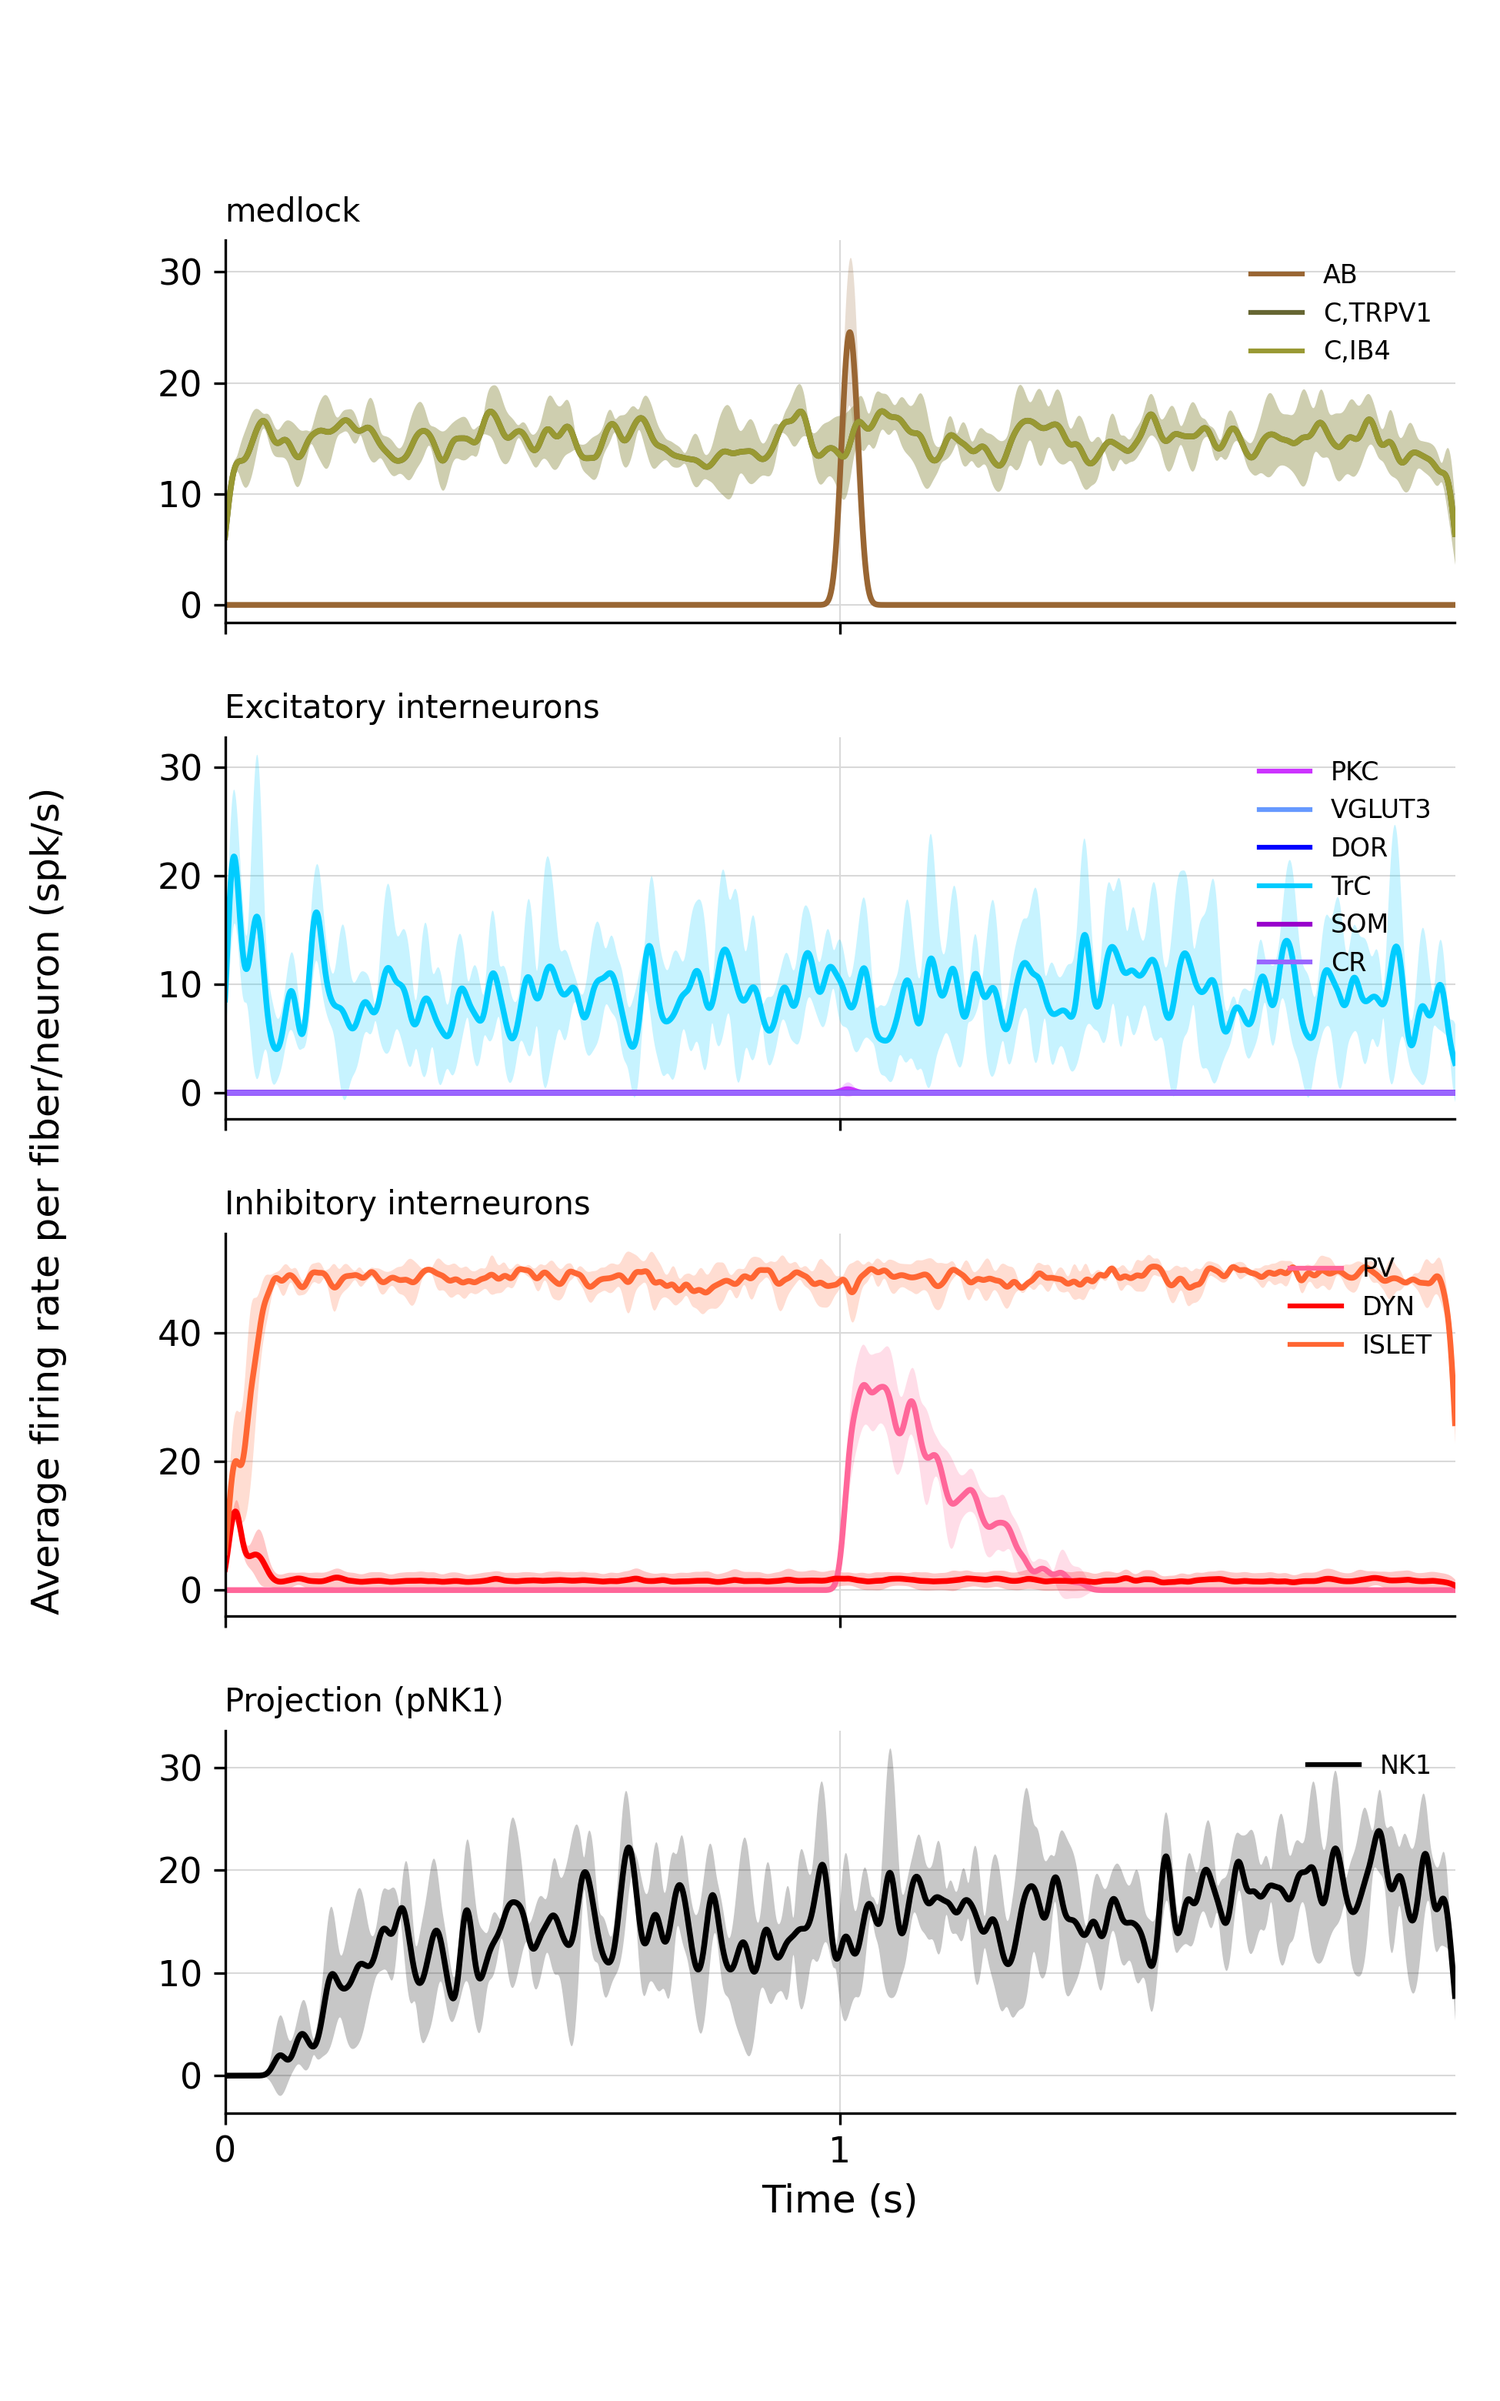
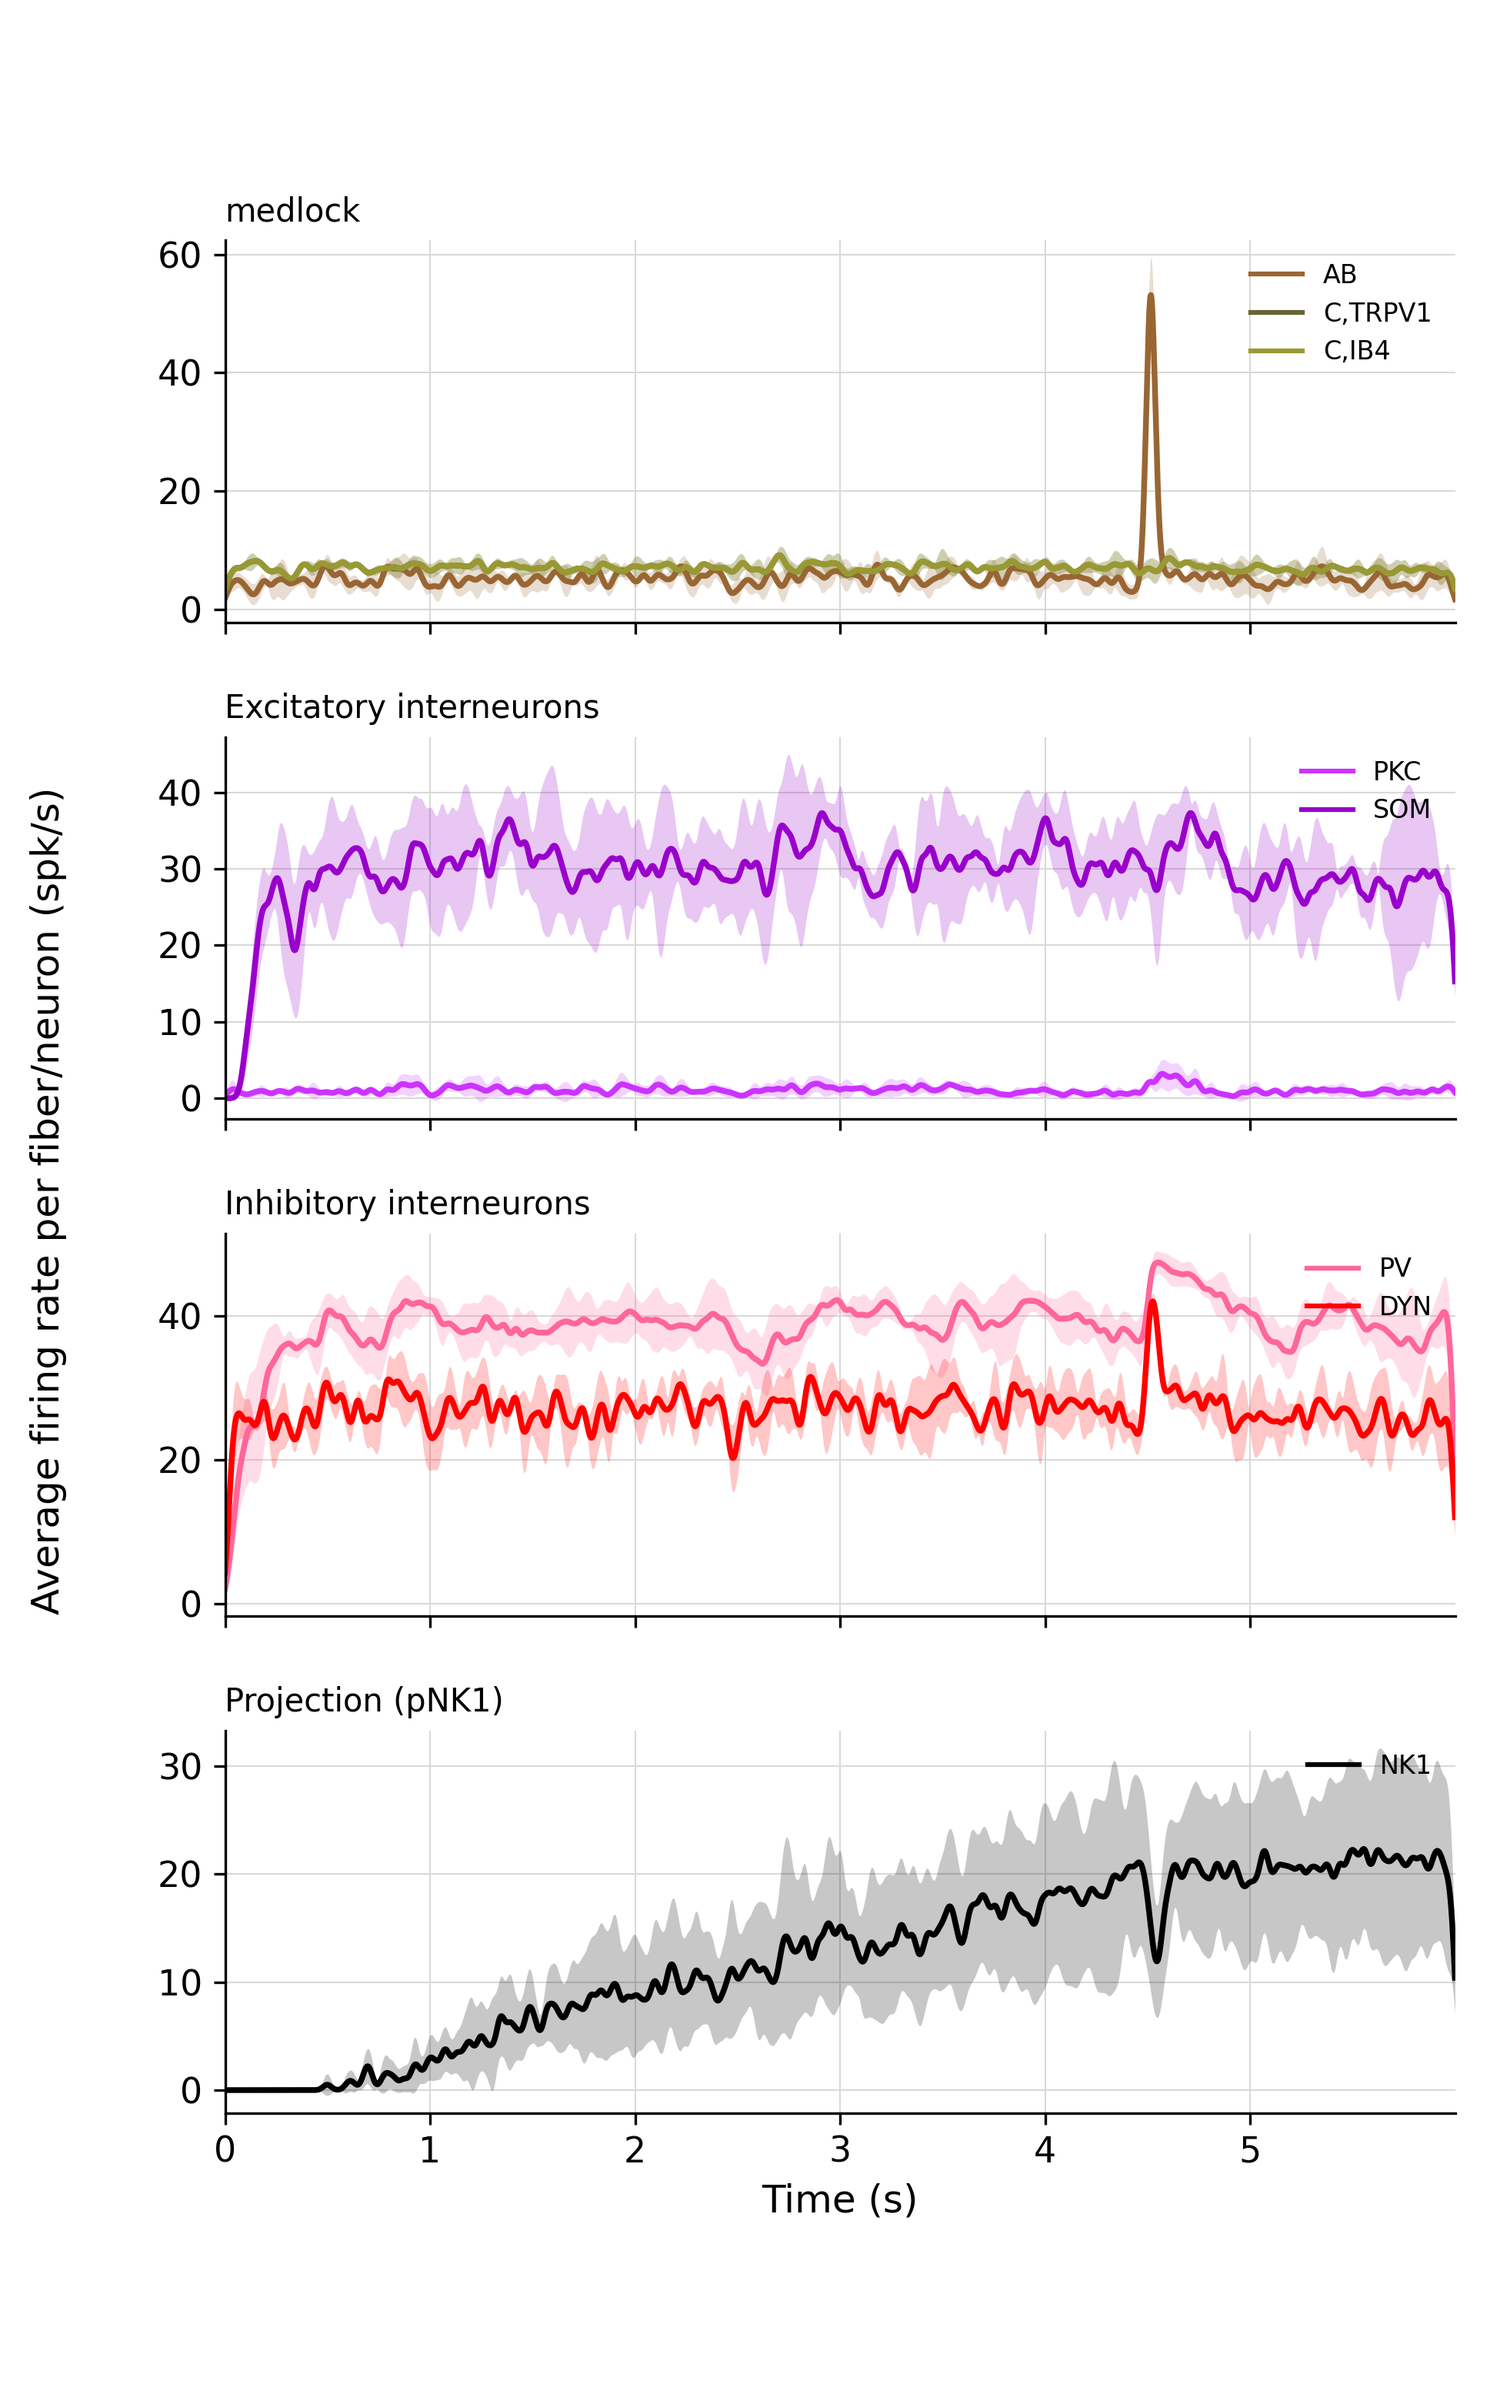
frh plotting

diff --git a/Helper Scripts & misc. (must remove from folder to use)/FRHcode/plot_frhs.py b/Helper Scripts & misc. (must remove from folder to use)/FRHcode/plot_frhs.py
@@ -116,9 +116,8 @@ from matplotlib.lines import Line2D
 
 # ---------------------------------------------------------------- constants --
 
-END_TIME = 2.0     # s, simulated duration (EndTime in FiringRateHist.m)
 RES      = 0.025   # ms, sampling resolution of simData.t
-KWID     = 10.0   # ms, Gaussian kernel sigma (kWid in FiringRateHist.m)
+KWID     = 20.0   # ms, Gaussian kernel sigma (kWid in FiringRateHist.m)
 
 # Default reference run, plotted unless --no-baseline is given. Override with
 # --baseline if the file lives somewhere else.
@@ -341,8 +340,10 @@ def kernel_psth(psth, g):
                   kept), smoothed once, scaled to the TOTAL rate of all
                   cells combined.
     '''
-def compute_trace(spkt, spkid, gids, t, g, end_time=END_TIME, summed=False, fraction=1.0):
+def compute_trace(spkt, spkid, gids, t, g, summed=False, fraction=1.0):
     '''Return (trace, n_cells, mean_rate) for one group of populations.'''
+    
+    end_time = (t[-1] - t[0]) / 1000.0
     times = spkt[np.isin(spkid, gids)]
 
     counts, _ = np.histogram(np.sort(times), bins=t)
@@ -418,9 +419,6 @@ def main():
                     help='SDH-colormap.mat containing Cellcmap')
     ap.add_argument('--sigma', type=float, default=KWID,
                     help='Gaussian kernel sigma in ms (default 100)')
-    ap.add_argument('--end-time', type=float, default=END_TIME,
-                    help='simulated duration in s, used to normalise rates '
-                         '(default 5)')
     ap.add_argument('--groups', nargs='+', default=None,
                 help='space-separated group labels to plot, '
                      'e.g. AB VGLUT3 PV PKC (default: all)')
@@ -471,11 +469,6 @@ def main():
             print(str(err), file=sys.stderr)
             sys.exit(1)
 
-        span = (t[-1] - t[0]) / 1000.0          # ms -> s
-        if abs(span - args.end_time) > 1e-6:
-            print('WARNING: %s spans %.3f s but rates are normalised by '
-                  '%.3f s (see --end-time)' % (path, span, args.end_time))
-
         have = set(labels)
         missing_pops = [p for p in POP_ORDER if p not in have]
         if missing_pops:
@@ -505,11 +498,6 @@ def main():
         except RuntimeError as err:
             print(str(err), file=sys.stderr)
             sys.exit(1)
-
-        span = (t[-1] - t[0]) / 1000.0          # ms -> s
-        if abs(span - args.end_time) > 1e-6:
-            print('WARNING: %s spans %.3f s but rates are normalised by '
-                  '%.3f s (see --end-time)' % (path, span, args.end_time))
 
         have = set(labels)
         missing_pops = [p for p in POP_ORDER if p not in have]
@@ -548,11 +536,6 @@ def main():
         except RuntimeError as err:
             print(str(err), file=sys.stderr)
             sys.exit(1)
-
-        span = (t[-1] - t[0]) / 1000.0          # ms -> s
-        if abs(span - args.end_time) > 1e-6:
-            print('WARNING: %s spans %.3f s but rates are normalised by '
-                  '%.3f s (see --end-time)' % (path, span, args.end_time))
 
         have = set(labels)
         missing_pops = [p for p in POP_ORDER if p not in have]
@@ -665,7 +648,7 @@ def main():
                 continue
             gids = np.concatenate([r['gids'][p] for p in use_pops])
             trace, n_cells, mean_rate = compute_trace(
-                r['spkt'], r['spkid'], gids, r['t'], g, args.end_time, summed=(name in SUMMED_GROUPS), fraction=r['frac'])
+                r['spkt'], r['spkid'], gids, r['t'], g, summed=(name in SUMMED_GROUPS), fraction=r['frac'])
             print('%-14s %-9s %5d %12.3f %12.3f'
                   % (r['label'], name, n_cells, mean_rate, trace.max()))
 
@@ -685,7 +668,7 @@ def main():
                     continue
                 gids = np.concatenate([tr['gids'][p] for p in use_pops])
                 trace, n_cells, mean_rate = compute_trace(
-                    tr['spkt'], tr['spkid'], gids, tr['t'], g, args.end_time, summed=(name in SUMMED_GROUPS),  fraction=args.trials_fraction)
+                    tr['spkt'], tr['spkid'], gids, tr['t'], g, summed=(name in SUMMED_GROUPS),  fraction=args.trials_fraction)
                 traces.append(trace)
                 mean_rates.append(mean_rate)
 
@@ -720,7 +703,7 @@ def main():
                     continue
                 gids = np.concatenate([tr['gids'][p] for p in use_pops])
                 trace, n_cells, mean_rate = compute_trace(
-                    tr['spkt'], tr['spkid'], gids, tr['t'], g, args.end_time, summed=(name in SUMMED_GROUPS),  fraction=args.trials2_fraction)
+                    tr['spkt'], tr['spkid'], gids, tr['t'], g, summed=(name in SUMMED_GROUPS),  fraction=args.trials2_fraction)
                 traces.append(trace)
                 mean_rates.append(mean_rate)
 
